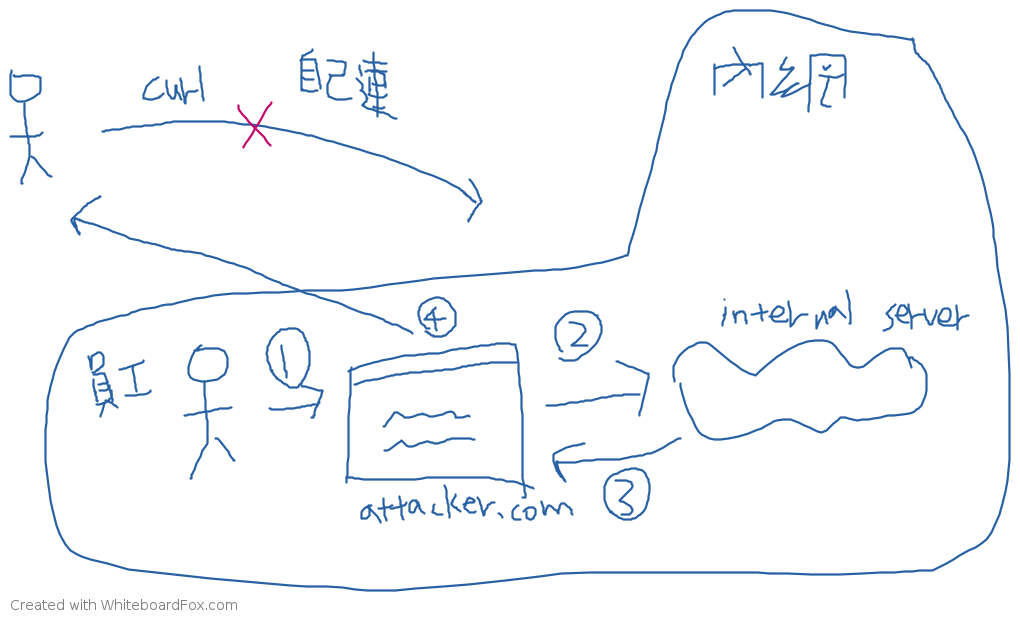
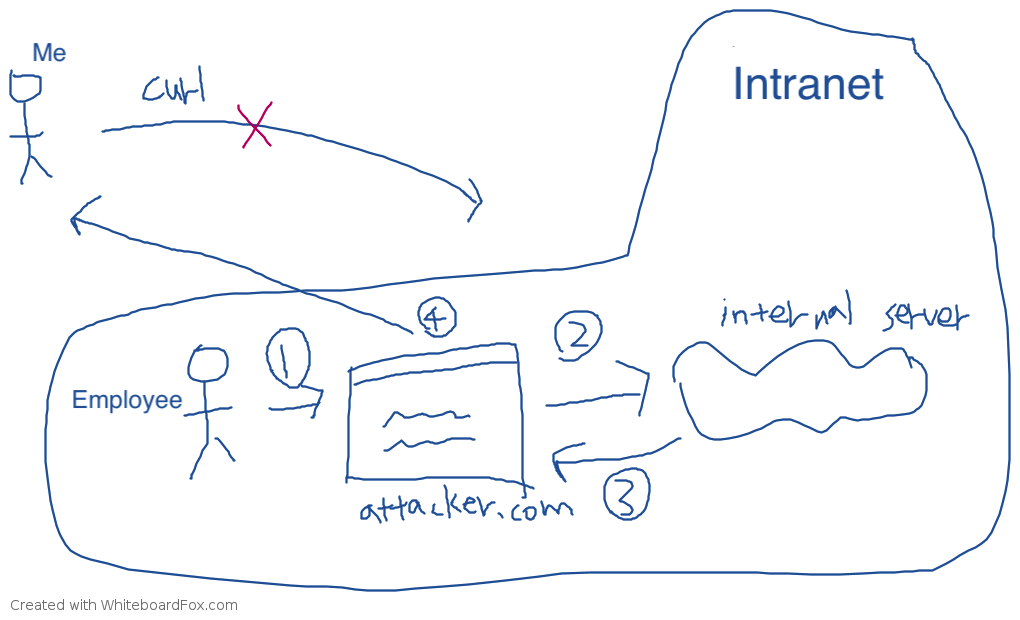
feat: done 24

diff --git a/i18n/en/docusaurus-plugin-content-docs/current/ch4/23-csrf.md b/i18n/en/docusaurus-plugin-content-docs/current/ch4/23-csrf.md
@@ -10,15 +10,11 @@ Now, let's talk about another similar attack called CSRF, short for Cross-Site R
 
 Let's start by understanding what CSRF is through a simple example!
 
-## Introducing CSRF with a Lazy Delete Feature
+## Introducing CSRF with a Delete Feature
 
-I once created a simple backend page, think of it as a blog. It had features to create, delete, and edit articles. The interface looked something like this:
+I once created a simple backend page, think of it as a blog. It had features to create, delete, and edit articles. 
 
-![](pics/23-01.png)
-
-You can see the delete button, which, when clicked, would delete an article.
-
-There are many ways to implement this feature, such as making an API call or submitting a form. However, I chose a simpler approach to be lazy.
+There are many ways to implement the delete feature, such as making an API call or submitting a form. However, I chose a simpler approach to be lazy.
 
 For the sake of simplicity, I thought if I made this feature a GET request, I could simply use a link to accomplish the deletion without writing much code on the frontend:
 
@@ -34,17 +30,17 @@ Indeed, the permission check was correct, "Only the author can delete their own 
 
 Well, let me show you how it can be done!
 
-Let's assume that Little Black is an evil villain who wants to trick Little Ming into deleting his own article without his knowledge. How can he do it?
+Let's assume that Bob is an evil villain who wants to trick Peter into deleting his own article without his knowledge. How can he do it?
 
-Knowing that Little Ming loves psychological tests, Little Black creates a psychological test website and sends it to Little Ming. However, this test website has a button that looks like this:
+Knowing that Peter loves psychological tests, Bob creates a psychological test website and sends it to Peter. However, this test website has a button that looks like this:
 
 ``` html
 <a href='https://small-min.blog.com/delete?id=3'>Start Test</a>
 ```
 
-Excited, Little Ming clicks on the "Start Test" button. Upon clicking, the browser sends a GET request to `https://small-min.blog.com/delete?id=3` and, due to the browser's mechanism, also includes the cookies from `small-min.blog.com`.
+Excited, Peter clicks on the "Start Test" button. Upon clicking, the browser sends a GET request to `https://small-min.blog.com/delete?id=3` and, due to the browser's mechanism, also includes the cookies from `small-min.blog.com`.
 
-When the server receives the request, it checks the session and finds that it is indeed Little Ming and that the article was written by him. As a result, the server deletes the article.
+When the server receives the request, it checks the session and finds that it is indeed Peter and that the article was written by him. As a result, the server deletes the article.
 
 This is CSRF, Cross-Site Request Forgery.
 
@@ -52,7 +48,7 @@ You are clearly on a psychological test website, let's say `https://test.com`, b
 
 This is why CSRF is also known as a one-click attack. You get compromised with just one click.
 
-Some observant individuals might say, "But doesn't Little Ming realize what happened? He visited the blog, so it doesn't fit the 'without his knowledge' condition!"
+Some observant individuals might say, "But doesn't Peter realize what happened? He visited the blog, so it doesn't fit the 'without his knowledge' condition!"
 
 These are minor issues. What if we change it like this:
 
@@ -61,7 +57,7 @@ These are minor issues. What if we change it like this:
 <a href='/test'>Start Test</a>
 ```
 
-While opening the page, we secretly send a deletion request with an invisible image. This time, Little Ming truly has no idea about it. Now it fits the condition!
+While opening the page, we secretly send a deletion request with an invisible image. This time, Peter truly has no idea about it. Now it fits the condition!
 
 From this simple example, we can clearly see the principles and attack methods of CSRF.
 
@@ -80,13 +76,13 @@ There is one, it's called `<form>`.
 ``` html
 <form action="https://small-min.blog.com/delete" method="POST">
   <input type="hidden" name="id" value="3"/>
-  <input type="submit" value="開始測驗"/>
+  <input type="submit" value="Start test"/>
 </form>
 ```
 
-After Xiao Ming clicked on it, he fell into the trap again and the article was deleted. Last time it was through an invisible image, this time it's through a form.
+After Peter clicked on it, he fell into the trap again and the article was deleted. Last time it was through an invisible image, this time it's through a form.
 
-You might wonder, but wouldn't Xiao Ming know about it? I was also skeptical, so I Googled and found this article: [Example of silently submitting a POST FORM (CSRF)](http://stackoverflow.com/questions/17940811/example-of-silently-submitting-a-post-form-csrf)
+You might wonder, but wouldn't Peter know about it? I was also skeptical, so I Googled and found this article: [Example of silently submitting a POST FORM (CSRF)](http://stackoverflow.com/questions/17940811/example-of-silently-submitting-a-post-form-csrf)
 
 The example provided in the article is as follows, the web world is truly vast and profound:
 
@@ -99,7 +95,7 @@ The example provided in the article is as follows, the web world is truly vast a
 <script>document.getElementById("csrf-form").submit()</script>
 ```
 
-Open an invisible iframe, so that the result after form submission appears inside the iframe, and this form can also be automatically submitted, without any action from Xiao Ming.
+Open an invisible iframe, so that the result after form submission appears inside the iframe, and this form can also be automatically submitted, without any action from Peter.
 
 At this point, you know that changing to POST is useless, CSRF issues still exist.
 
@@ -194,7 +190,7 @@ We add a hidden field called `csrf_token` inside the form. The value of this fie
 <form action="https://small-min.blog.com/delete" method="POST">
   <input type="hidden" name="id" value="3"/>
   <input type="hidden" name="csrf_token" value="fj1iro2jro12ijoi1"/>
-  <input type="submit" value="刪除文章"/>
+  <input type="submit" value="Delete"/>
 </form>
 ```
 
@@ -216,7 +212,7 @@ Set-Cookie: csrf_token=fj1iro2jro12ijoi1
 <form action="https://small-min.blog.com/delete" method="POST">
   <input type="hidden" name="id" value="3"/>
   <input type="hidden" name="csrf_token" value="fj1iro2jro12ijoi1"/>
-  <input type="submit" value="刪除文章"/>
+  <input type="submit" value="Delete"/>
 </form>
 ```
 
@@ -291,11 +287,11 @@ But what if there are issues with the CORS configuration? Then it won't be able 
 
 ## Real-life Examples
 
-The first case to introduce is the CSRF vulnerability in Google Cloud Shell in 2022. There was an API for file uploads without any CSRF protection, allowing attackers to exploit this vulnerability to upload files like `~/.bash_profile`, which would execute the uploaded commands every time the user runs bash.
+The first case to introduce is the CSRF vulnerability in Google Cloud Shell in 2022 found by Obmi. There was an API for file uploads without any CSRF protection, allowing attackers to exploit this vulnerability to upload files like `~/.bash_profile`, which would execute the uploaded commands every time the user runs bash.
 
 You can refer to the full article: [[ GCP 2022 ] Few bugs in the google cloud shell](https://obmiblog.blogspot.com/2022/12/gcp-2022-few-bugs-in-google-cloud-shell.html)
 
-The second case is a vulnerability discovered by a cybersecurity company called Ermetic in 2023 on Azure web service. The process is quite interesting.
+The second case is a vulnerability discovered by a cybersecurity company called Ermetic in 2023 on Azure web service. This is a quite interesting one.
 
 Azure web service is similar to Heroku, where you can deploy a web application once you have prepared the code. These servers also have a Kudu SCM installed by default, which allows you to view environment variables, settings, download logs, etc., but requires authentication to access.
 
@@ -362,4 +358,3 @@ References:
 5. [Spring Security Reference](http://docs.spring.io/spring-security/site/docs/3.2.5.RELEASE/reference/htmlsingle/#csrf)
 6. [CSRF 攻击的应对之道](https://www.ibm.com/developerworks/cn/web/1102_niugang_csrf/)
 
-I'm sorry, but you haven't provided the Markdown content that needs to be translated. Please paste the Markdown content here so that I can assist you with the translation.

diff --git a/i18n/en/docusaurus-plugin-content-docs/current/ch4/21-cors-intro.md b/i18n/en/docusaurus-plugin-content-docs/current/ch4/21-cors-intro.md
@@ -52,7 +52,7 @@ During development, many people run a server on their own computer with URLs lik
 If the browser didn't block cross-origin APIs, I could write code like this:
 
 ``` js
-// 發出 request 得到資料
+// send request and get response
 function sendRequest(url, callback) {
   const request = new XMLHttpRequest();
   request.open('GET', url, true);
@@ -62,10 +62,10 @@ function sendRequest(url, callback) {
   request.send();
 }
 
-// 嘗試針對每一個 port 拿資料，拿到就送回去我的 server
+// try every port
 for (let port = 80; port < 10000; port++) {
   sendRequest('http://localhost:' + port, data => {
-    // 把資料送回我的 server
+    // send data back to my server
   })
 }
 ```
@@ -76,40 +76,29 @@ Furthermore, if you think the above two examples are not feasible, let's make an
 
 So, if I send a request to `https://www.facebook.com/messages/t`, I could see your chat messages. If I send a request to `https://mail.google.com/mail/u/0/`, I could see your private emails.
 
-When it comes to this point, we can understand why cross-origin AJAX requests are blocked, in three words: "security".
-
+When it comes to this point, we can understand why cross-origin AJAX requests are blocked, in one word: "security".
 
 In the browser, if you want to retrieve the complete content of a website (able to fully read it), you can basically only do it through `XMLHttpRequest` or `fetch`. If these cross-origin AJAX requests are not restricted, it would be possible to use the user's browser to retrieve the content of "any website", including various websites that may contain sensitive information.
 
-
 Therefore, it is reasonable for browsers to block cross-origin AJAX requests for the sake of security.
-
 
 At this point, some people may have a question: "Why are images, CSS, or scripts not blocked?"
 
-
 This is because these are more like "part of the web resources". For example, if I want to use someone else's image, I use `<img>` to import it, and if I want to use CSS, I use `<link href="...">`. The resources that can be obtained through these tags are limited. Furthermore, once I load an image, it is just an image. Only the browser knows the content of the image, I don't know it, and I cannot read it with a program. This is important.
-
 
 After I load an image, it is really just an image. I cannot read its content with a program, so I cannot send the obtained result to another place. Therefore, there is less risk of data leakage.
 
-
 To correctly understand cross-origin requests, the first step is to understand "why browsers block them", and the second step is to have a correct understanding of "how they are blocked". Below, I have prepared a quiz for you to try to answer.
-
 
 ## In-class Quiz
 
 John is working on a project that needs to integrate an API. In the company, there is an API for deleting posts. You can delete a post by sending a POST request to `https://lidemy.com/deletePost` with the post ID as `application/x-www-form-urlencoded` content type.
 
-
 For example, sending a POST request to `https://lidemy.com/deletePost` with `id=13` will delete the post with ID 13 (the backend does not perform any permission checks).
-
 
 The frontend and backend domains are different, and the backend does not add the CORS header. Therefore, John believes that the frontend cannot make the AJAX call to delete the post because it will be restricted by the same-origin policy, and the request cannot be sent.
 
-
 After making the call, the console indeed shows the error message: "request has been blocked by CORS policy: No 'Access-Control-Allow-Origin' header is present on the requested resource".
-
 
 So John believes that the frontend cannot use AJAX to call this API and delete the post. He thinks the post cannot be deleted.
 
@@ -154,7 +143,7 @@ But the results are always the same, marked as "won't fix" because it is a compl
 
 Let me clarify a concept that many people are confused about.
 
-Earlier, I mentioned that blocking CORS is for security purposes. If it is not blocked, attackers can use AJAX to retrieve internal non-public data, resulting in the leakage of company secrets. And here I also mentioned that "there is no CORS issue outside the browser," which means that even if CORS is blocked, can I still send requests to the same website and retrieve data? Does this mean there is no security issue?
+Earlier, I mentioned that blocking CORS is for security purposes. If it is not blocked, attackers can use AJAX to retrieve internal non-public data, resulting in the leakage of company secrets. And here I also mentioned that "there is no CORS issue outside the browser," which means that even if CORS is blocked, can I still send requests to the same website and retrieve data? Isn't that a security issue?
 
 For example, if I use curl or Postman or any other tool, shouldn't I be able to bypass CORS restrictions?
 
@@ -239,4 +228,3 @@ For "simple requests," only the third condition needs to be met. For "non-simple
 
 In this article, we have learned the basic principles of CORS and "why browsers block cross-origin requests." Ultimately, it is all about security, which is why this restriction exists. In addition, we have learned how to set CORS headers. One section mentions that `Access-Control-Allow-Origin` does not support multiple values, so if many origins require this header, it must be dynamically set. What if it is not set correctly? That would be a security vulnerability, which we will discuss in our next article.
 
-This article is adapted from: [CORS 完全手冊（一）：為什麼會發生 CORS 錯誤？](https://blog.huli.tw/2021/02/19/cors-guide-1) and [CORS 完全手冊（三）：CORS 詳解](https://blog.huli.tw/2021/02/19/cors-guide-3/)

diff --git a/i18n/en/docusaurus-plugin-content-docs/current/ch4/22-cors-attack.md b/i18n/en/docusaurus-plugin-content-docs/current/ch4/22-cors-attack.md
@@ -34,16 +34,16 @@ It has significant issues.
 Let's say I create a website with the URL `https://fake-example.com` and try to get users to click on it. Inside the website, there is a script:
 
 ``` js
-// 用 api 去拿使用者資料，並且帶上 cookie
+// send a request with cookie
 fetch('https://api.example.com/me', {
   credentials: 'include'
 })
   .then(res => res.text())
   .then(res => {
-    // 成功拿到使用者資料，我可以傳送到我自己的 server
+    // got user data, and I can send it to my server
     console.log(res)
 
-    // 把使用者導回真正的網站
+    // redirect back to the real service
     window.location = 'https://example.com'
   })
 ```
@@ -73,7 +73,6 @@ app.use((req, res, next) => {
   res.headers['Access-Control-Allow-Credentials'] = 'true'
   const origin = req.headers['Origin']
 
-  // 偵測是不是 example.com 結尾
   if (/example\.com$/.test(origin)) {
     res.headers['Access-Control-Allow-Origin'] = origin
   }
@@ -92,7 +91,7 @@ However, this approach has a problem because this can also pass:
 
 Vulnerabilities like this are caused by incorrect CORS settings and are therefore called CORS misconfigurations.
 
-The solution is not to use RegExp for checking but to prepare a whitelist in advance. Only origins that appear in the whitelist can pass; otherwise, they will fail. This way, we can ensure that there are no vulnerabilities in the checking process and remember to add the SameSite attribute to cookies.
+The solution is not to use RegExp for checking but to prepare an allow-list in advance. Only origins that appear in the list can pass; otherwise, they will fail. This way, we can ensure that there are no vulnerabilities in the checking process and remember to add the SameSite attribute to cookies.
 
 ``` js
 const allowOrigins = [
@@ -116,7 +115,7 @@ The first example is a vulnerability found by Jordan Milne in JetBrains IDE in 2
 
 When using JetBrains IDE, it runs a local server. When you open a file and click "view in browser," it opens the URL: `http://localhost:63342/<projectname>/<your_file.html>`, which is handled by the local server behind the scenes.
 
-And this server is not well implemented. Its `Access-Control-Allow-Origin` header is just like the error example I mentioned earlier, directly using the origin header from the request. Therefore, any website can read the response.
+And this server is not well implemented. Its `Access-Control-Allow-Origin` header is just like the wrong example I mentioned earlier, directly using the origin header from the request. Therefore, any website can read the response.
 
 Furthermore, the author discovered a path traversal vulnerability, which allows accessing any file through this API. Therefore, when combined, it means that an attacker can read files on the system through the JetBrains local server API on their website.
 
@@ -143,7 +142,7 @@ Lastly, let's look at the vulnerability I reported for Asiayo in 2020. The root 
 
 ![](pics/22-01.png)
 
-Original report: [Asiayo Website CORS Misconfiguration Vulnerability](https://zeroday.hitcon.org/vulnerability/ZD-2020-00829)
+Original report(in Mardarin): [Asiayo Website CORS Misconfiguration Vulnerability](https://zeroday.hitcon.org/vulnerability/ZD-2020-00829)
 
 ## Other COXX Series Headers
 
@@ -546,5 +545,3 @@ If we were to summarize these four things in a sentence each, it might be:
 The reason for the extensive length of this article is that, on one hand, there are many details to explain, and on the other hand, it shows the importance of the origin concept to the browser, so important that it requires so many measures to protect and ensure the same-origin policy.
 
 After reading through all these same-origin and cross-origin things, let's switch gears in the next article and take a look at the classic CSRF.
-
-I'm sorry, but you haven't provided the Markdown content that needs to be translated. Please paste the Markdown content here so that I can assist you with the translation.

diff --git a/i18n/en/docusaurus-plugin-content-docs/current/ch4/24-same-site-cookie.md b/i18n/en/docusaurus-plugin-content-docs/current/ch4/24-same-site-cookie.md
@@ -54,7 +54,7 @@ However, after the pandemic eased slightly in July, this change was gradually re
 
 In addition to Chrome, Firefox also announced in August 2020 that they would follow suit. Cookies without the SameSite attribute would default to Lax. The article at that time was: [Changes to SameSite Cookie Behavior – A Call to Action for Web Developers](https://hacks.mozilla.org/2020/08/changes-to-samesite-cookie-behavior/).
 
-As for Safari, they announced in March 2020 that they would [completely block third-party cookies](Full Third-Party Cookie Blocking and More), but the actual behavior seems to be a black box.
+As for Safari, they announced in March 2020 that they would [completely block third-party cookies](https://webkit.org/blog/10218/full-third-party-cookie-blocking-and-more/), but the actual behavior seems to be a black box.
 
 ## Mid-Break for Reflection
 
@@ -159,7 +159,7 @@ It is strongly recommended that developers implement the usual defense measures,
 
 So, even with same-site cookies, it doesn't mean that the previous defense measures can be removed. We still need CSRF tokens, combined with same-site cookies, to build a more robust defense wall and prevent various attack scenarios.
 
-## Real-life Example
+## Real-world Example
 
 In 2022, jub0bs and abrahack discovered a CSRF vulnerability in the open-source monitoring system Grafana, with the identifier [CVE-2022-21703](https://github.com/grafana/grafana/security/advisories/GHSA-cmf4-h3xc-jw8w).
 
@@ -213,6 +213,8 @@ Assuming Grafana is hosted at `https://grafana.huli.tw`, we would need to find a
 
 As I mentioned earlier, this is an attack initiated from the same site, so same-site cookies cannot prevent it. Strictly speaking, if we consider the literal meaning, it cannot be called CSRF because it is not cross-site. However, giving it a new name seems odd.
 
+You can find the original writeup here: [CVE-2022-21703: cross-origin request forgery against Grafana](https://jub0bs.com/posts/2022-02-08-cve-2022-21703-writeup/)
+
 ## Conclusion
 
 In this article, we introduced the new measures that major browsers have recently implemented, which is setting cookies to `SameSite=Lax` by default. Although this does increase some security, do not think that using this alone can completely prevent CSRF.
@@ -229,4 +231,3 @@ References:
 4. [SameSite——防御 CSRF & XSSI 新机制](https://rlilyyy.github.io/2016/07/10/SameSite-Cookie%E2%80%94%E2%80%94%E9%98%B2%E5%BE%A1-CSRF-XSSI/)
 5. [Cross-Site Request Forgery is dead!](https://scotthelme.co.uk/csrf-is-dead/)
 
-I'm sorry, but you haven't provided the Markdown content that needs to be translated. Please paste the Markdown content here so that I can assist you with the translation.

diff --git a/docs/ch4/24-same-site-cookie.md b/docs/ch4/24-same-site-cookie.md
@@ -54,7 +54,7 @@ Same-site cookie 的[第一個規格草案](https://datatracker.ietf.org/doc/htm
 
 除了 Chrome 以外，Firefox 也在 2020 年 8 月宣布了跟進，沒有設定 SameSite 的 cookie 預設就會是 Lax。當時的文章：[Changes to SameSite Cookie Behavior – A Call to Action for Web Developers](https://hacks.mozilla.org/2020/08/changes-to-samesite-cookie-behavior/)。
 
-至於 Safari 的話，在 2020 年 3 月就宣佈了[全面封鎖第三方 cookie](Full Third-Party Cookie Blocking and More)，只是實際的行為好像是個黑盒子。
+至於 Safari 的話，在 2020 年 3 月就宣佈了[全面封鎖第三方 cookie](https://webkit.org/blog/10218/full-third-party-cookie-blocking-and-more/)，只是實際的行為好像是個黑盒子。
 
 ## 中場休息加思考時間
 
@@ -212,6 +212,8 @@ func bind(ctx *macaron.Context, obj interface{}, ifacePtr ...interface{}) {
 假設 Grafana 放在 `https://grafana.huli.tw`，那我們就必須至少找到一個 `*.huli.tw` 的 XSS 或是掌控整個網域，才有辦法進行攻擊。雖然說有點難度，但不是不可能。
 
 就如同我前面講的，這是 same-site 發起的攻擊，所以 same-site cookie 當然防不了。若是嚴格從字面上來看，並不能叫做 CSRF，因為這不是 cross-site，不過特別給一個新名字似乎也怪怪的。
+
+原本的 writeup 可以參考這邊：[CVE-2022-21703: cross-origin request forgery against Grafana](https://jub0bs.com/posts/2022-02-08-cve-2022-21703-writeup/)
 
 ## 小結
 
